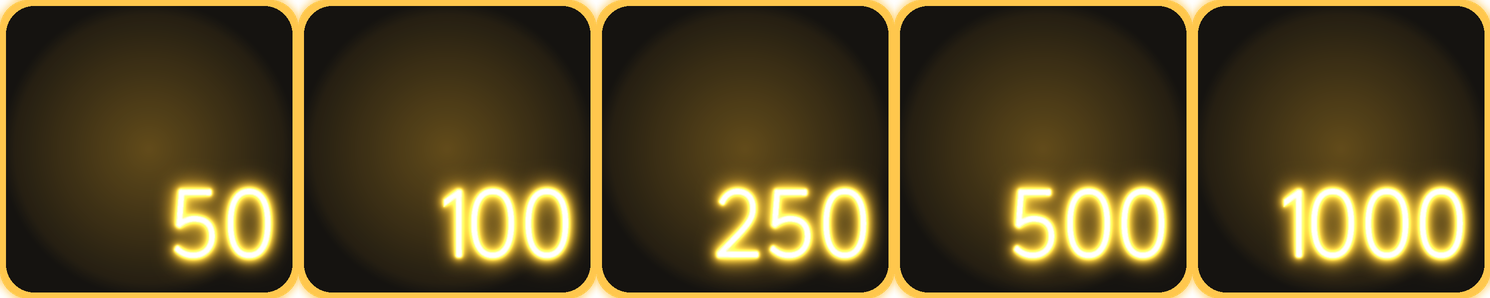
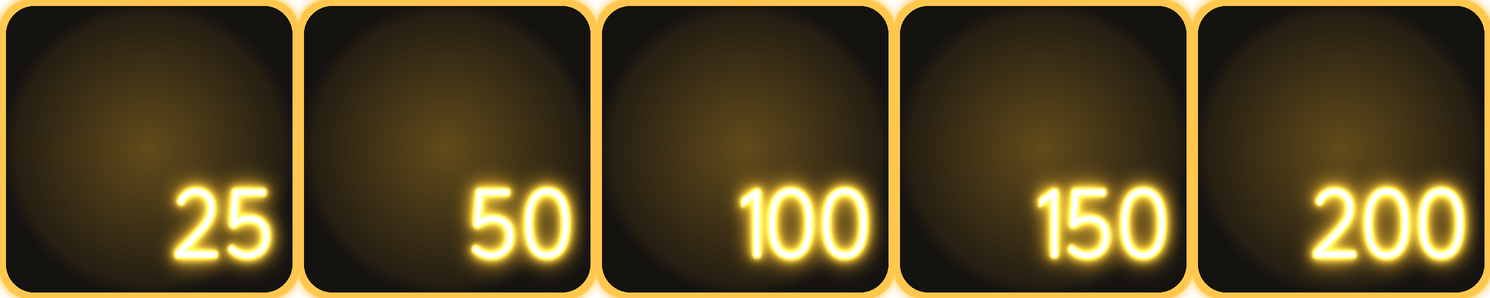
Upgrade prices lowered (25/50/100/150/200), cards regenerated, existing saves migrated

diff --git a/core/src/com/spaceship/main/Main.java b/core/src/com/spaceship/main/Main.java
@@ -140,24 +140,24 @@ public class Main extends Game{
 			cursor = upgradesPriceDB.rawQuery("SELECT COUNT(id) FROM upgradesPrice;");
 			if(cursor != null && cursor.next())
 				if(String.valueOf(cursor.getInt(0)).equals("0")){ 
-					upgradesPriceDB.execSQL("INSERT INTO upgradesPrice (id, bought, lifeBalls) VALUES (0, 0, 50)");
-					upgradesPriceDB.execSQL("INSERT INTO upgradesPrice (id, bought, lifeBalls) VALUES (1, 0, 100)");
-					upgradesPriceDB.execSQL("INSERT INTO upgradesPrice (id, bought, lifeBalls) VALUES (2, 0, 250)");
-					upgradesPriceDB.execSQL("INSERT INTO upgradesPrice (id, bought, lifeBalls) VALUES (3, 0, 500)");
-					upgradesPriceDB.execSQL("INSERT INTO upgradesPrice (id, bought, lifeBalls) VALUES (4, 0, 250)");
-					upgradesPriceDB.execSQL("INSERT INTO upgradesPrice (id, bought, lifeBalls) VALUES (5, 0, 500)");
-					upgradesPriceDB.execSQL("INSERT INTO upgradesPrice (id, bought, lifeBalls) VALUES (6, 0, 100)");
-					upgradesPriceDB.execSQL("INSERT INTO upgradesPrice (id, bought, lifeBalls) VALUES (7, 0, 250)");
-					upgradesPriceDB.execSQL("INSERT INTO upgradesPrice (id, bought, lifeBalls) VALUES (8, 0, 500)");
-					upgradesPriceDB.execSQL("INSERT INTO upgradesPrice (id, bought, lifeBalls) VALUES (9, 0, 250)");
-					upgradesPriceDB.execSQL("INSERT INTO upgradesPrice (id, bought, lifeBalls) VALUES (10, 0, 500)");
-					upgradesPriceDB.execSQL("INSERT INTO upgradesPrice (id, bought, lifeBalls) VALUES (11, 0, 250)");
-					upgradesPriceDB.execSQL("INSERT INTO upgradesPrice (id, bought, lifeBalls) VALUES (12, 0, 500)");
-					upgradesPriceDB.execSQL("INSERT INTO upgradesPrice (id, bought, lifeBalls) VALUES (13, 0, 1000)");
-					upgradesPriceDB.execSQL("INSERT INTO upgradesPrice (id, bought, lifeBalls) VALUES (14, 0, 50)");
-					upgradesPriceDB.execSQL("INSERT INTO upgradesPrice (id, bought, lifeBalls) VALUES (15, 0, 100)");
-					upgradesPriceDB.execSQL("INSERT INTO upgradesPrice (id, bought, lifeBalls) VALUES (16, 0, 250)");
-					upgradesPriceDB.execSQL("INSERT INTO upgradesPrice (id, bought, lifeBalls) VALUES (17, 0, 500)");
+					upgradesPriceDB.execSQL("INSERT INTO upgradesPrice (id, bought, lifeBalls) VALUES (0, 0, 25)");
+					upgradesPriceDB.execSQL("INSERT INTO upgradesPrice (id, bought, lifeBalls) VALUES (1, 0, 50)");
+					upgradesPriceDB.execSQL("INSERT INTO upgradesPrice (id, bought, lifeBalls) VALUES (2, 0, 100)");
+					upgradesPriceDB.execSQL("INSERT INTO upgradesPrice (id, bought, lifeBalls) VALUES (3, 0, 150)");
+					upgradesPriceDB.execSQL("INSERT INTO upgradesPrice (id, bought, lifeBalls) VALUES (4, 0, 100)");
+					upgradesPriceDB.execSQL("INSERT INTO upgradesPrice (id, bought, lifeBalls) VALUES (5, 0, 150)");
+					upgradesPriceDB.execSQL("INSERT INTO upgradesPrice (id, bought, lifeBalls) VALUES (6, 0, 50)");
+					upgradesPriceDB.execSQL("INSERT INTO upgradesPrice (id, bought, lifeBalls) VALUES (7, 0, 100)");
+					upgradesPriceDB.execSQL("INSERT INTO upgradesPrice (id, bought, lifeBalls) VALUES (8, 0, 150)");
+					upgradesPriceDB.execSQL("INSERT INTO upgradesPrice (id, bought, lifeBalls) VALUES (9, 0, 100)");
+					upgradesPriceDB.execSQL("INSERT INTO upgradesPrice (id, bought, lifeBalls) VALUES (10, 0, 150)");
+					upgradesPriceDB.execSQL("INSERT INTO upgradesPrice (id, bought, lifeBalls) VALUES (11, 0, 100)");
+					upgradesPriceDB.execSQL("INSERT INTO upgradesPrice (id, bought, lifeBalls) VALUES (12, 0, 150)");
+					upgradesPriceDB.execSQL("INSERT INTO upgradesPrice (id, bought, lifeBalls) VALUES (13, 0, 200)");
+					upgradesPriceDB.execSQL("INSERT INTO upgradesPrice (id, bought, lifeBalls) VALUES (14, 0, 25)");
+					upgradesPriceDB.execSQL("INSERT INTO upgradesPrice (id, bought, lifeBalls) VALUES (15, 0, 50)");
+					upgradesPriceDB.execSQL("INSERT INTO upgradesPrice (id, bought, lifeBalls) VALUES (16, 0, 100)");
+					upgradesPriceDB.execSQL("INSERT INTO upgradesPrice (id, bought, lifeBalls) VALUES (17, 0, 150)");
 					
 				}	
 
@@ -343,6 +343,15 @@ public class Main extends Game{
 			// TODO Auto-generated catch block
 			e.printStackTrace();
 		}
+		// upgrade prices were lowered: bring existing saves to the current price list (safe to repeat, bought flags are untouched)
+		try {
+			int[][] upgradePrices = {{0,25},{1,50},{2,100},{3,150},{4,100},{5,150},{6,50},{7,100},{8,150},{9,100},{10,150},{11,100},{12,150},{13,200},{14,25},{15,50},{16,100},{17,150}};
+			for (int[] up : upgradePrices)
+				upgradesPriceDB.execSQL("UPDATE upgradesPrice SET lifeBalls=" + up[1] + " WHERE id=" + up[0] + ";");
+		} catch (SQLiteGdxException e) {
+			e.printStackTrace();
+		}
+
 		// ship prices were lowered: bring existing saves to the current price list (safe to repeat, bought flags are untouched)
 		try {
 			int[][] shipPrices = {{1,50,0},{2,0,50},{3,50,0},{4,0,50},{5,0,60},{6,50,50},{7,60,0},{8,50,50},{9,0,70},{10,70,0},{11,80,0},{12,60,60},{13,60,60},{14,0,80},{15,0,100},{16,100,0},{17,0,100},{18,100,0},{19,0,120},{20,120,0},{21,100,60},{22,80,80},{23,130,0},{24,0,130},{25,70,100},{26,0,150},{27,150,0},{28,150,0},{29,0,150},{30,110,110},{31,110,110},{32,110,110},{33,110,110},{34,150,90},{35,0,200},{36,200,0},{37,0,200},{38,200,0},{39,130,150},{40,150,130},{41,130,150},{42,160,140},{43,0,300},{44,300,0},{45,0,300},{46,300,0},{47,210,110},{48,200,120},{49,225,130},{50,0,400},{51,400,0},{52,175,250},{53,500,0},{54,0,500},{55,625,0},{56,0,625},{57,260,260},{58,260,260},{59,225,375},{60,375,225},{61,0,750},{62,750,0},{63,0,1000},{64,1000,0},{65,500,500},{66,500,500},{67,600,650},{68,1000,750},{69,750,1000},{70,0,2000},{71,2000,0},{72,1600,1200},{73,2000,2000},{74,2000,2000}};

diff --git a/tools/art/neon_ui.py b/tools/art/neon_ui.py
@@ -309,7 +309,7 @@ def build_cards():
         N.finish(price, 1100, 298, 'bgs/bgsPrice%d.png' % s)
         N.finish(bought, 1100, 298, 'bgs/bgsBought%d.png' % s)
     sheet = N.canvas(745, 149)
-    for j, v in enumerate([50, 100, 250, 500, 1000]):
+    for j, v in enumerate([25, 50, 100, 150, 200]):
         t = tile(149, 149, (GOLD,), None, 14)
         m = font.mask(str(v), 44)
         put_text(t, m, 149 * N.U - 10 * N.U - m.width, 149 * N.U - 10 * N.U - m.height, GOLD, size=44)
